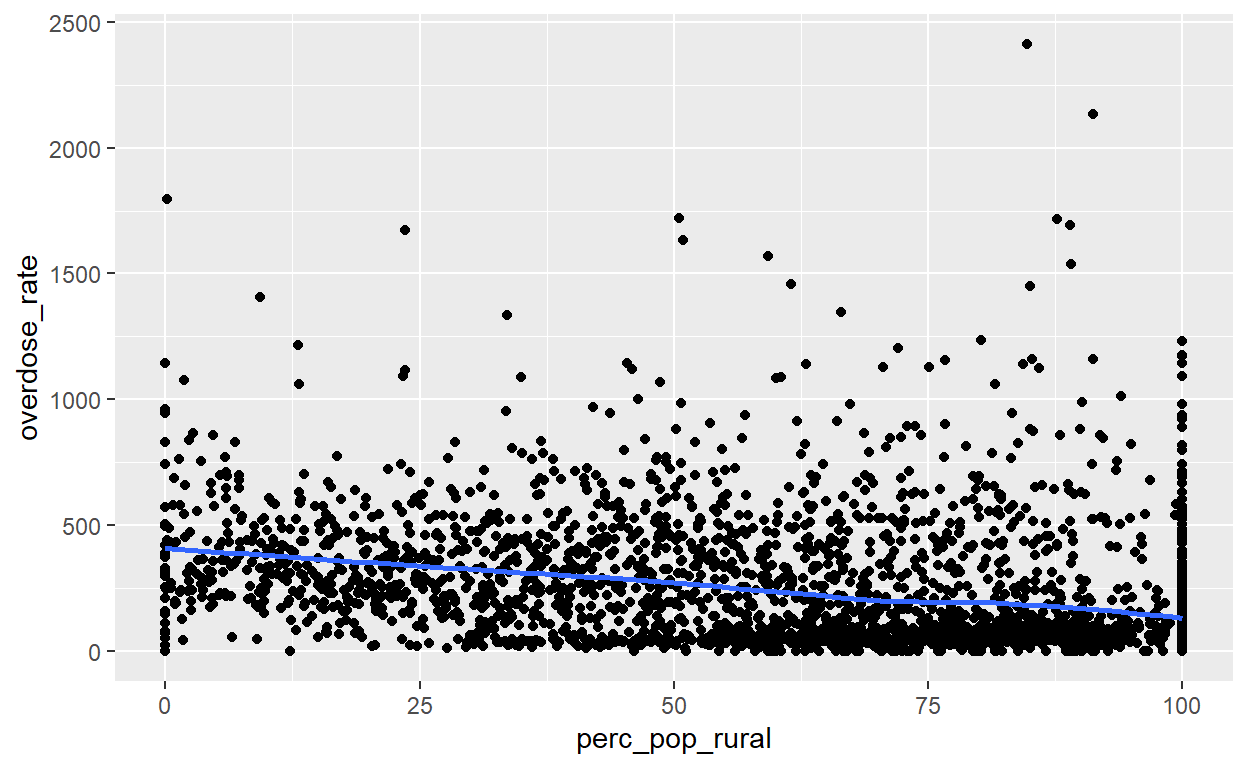
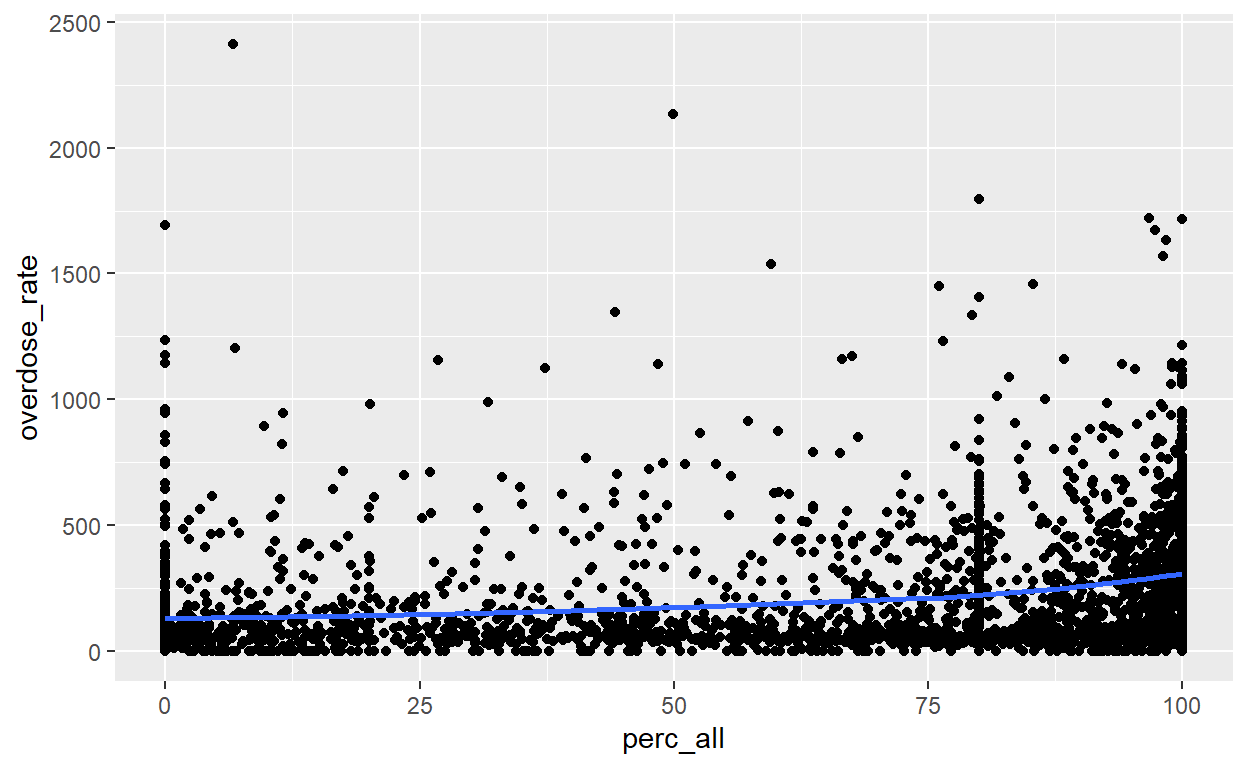
0

diff --git a/index.html b/index.html
@@ -115,7 +115,7 @@ code span.wa { color: #5e5e5e; font-style: italic; } /* Warning */
   <!--/radix_placeholder_rmarkdown_metadata-->
   
   <script type="text/json" id="radix-resource-manifest">
-  {"type":"character","attributes":{},"value":["Data/Access_to_Intercity_Air__Bus__and_Rail_Transportation_in_Rural_Areas.csv","Data/Data.Rproj","Data/VSRR_Provisional_County-Level_Drug_Overdose_Death_Counts.csv","index_files/anchor-4.2.2/anchor.min.js","index_files/bowser-1.9.3/bowser.min.js","index_files/distill-2.2.21/template.v2.js","index_files/figure-html5/unnamed-chunk-5-1.png","index_files/figure-html5/unnamed-chunk-5-2.png","index_files/figure-html5/unnamed-chunk-5-3.png","index_files/figure-html5/unnamed-chunk-5-4.png","index_files/figure-html5/unnamed-chunk-6-1.png","index_files/header-attrs-2.17/header-attrs.js","index_files/header-attrs-2.24/header-attrs.js","index_files/jquery-3.6.0/jquery-3.6.0.js","index_files/jquery-3.6.0/jquery-3.6.0.min.js","index_files/jquery-3.6.0/jquery-3.6.0.min.map","index_files/popper-2.6.0/popper.min.js","index_files/tippy-6.2.7/tippy-bundle.umd.min.js","index_files/tippy-6.2.7/tippy-light-border.css","index_files/tippy-6.2.7/tippy.css","index_files/tippy-6.2.7/tippy.umd.min.js","index_files/webcomponents-2.0.0/webcomponents.js"]}
+  {"type":"character","attributes":{},"value":["Data/Access_to_Intercity_Air__Bus__and_Rail_Transportation_in_Rural_Areas.csv","Data/Data.Rproj","Data/VSRR_Provisional_County-Level_Drug_Overdose_Death_Counts.csv","index_files/anchor-4.2.2/anchor.min.js","index_files/bowser-1.9.3/bowser.min.js","index_files/distill-2.2.21/template.v2.js","index_files/figure-html5/unnamed-chunk-5-1.png","index_files/figure-html5/unnamed-chunk-5-2.png","index_files/figure-html5/unnamed-chunk-5-3.png","index_files/figure-html5/unnamed-chunk-5-4.png","index_files/figure-html5/unnamed-chunk-6-1.png","index_files/figure-html5/unnamed-chunk-6-2.png","index_files/header-attrs-2.17/header-attrs.js","index_files/header-attrs-2.24/header-attrs.js","index_files/jquery-3.6.0/jquery-3.6.0.js","index_files/jquery-3.6.0/jquery-3.6.0.min.js","index_files/jquery-3.6.0/jquery-3.6.0.min.map","index_files/popper-2.6.0/popper.min.js","index_files/tippy-6.2.7/tippy-bundle.umd.min.js","index_files/tippy-6.2.7/tippy-light-border.css","index_files/tippy-6.2.7/tippy.css","index_files/tippy-6.2.7/tippy.umd.min.js","index_files/webcomponents-2.0.0/webcomponents.js"]}
   </script>
   <!--radix_placeholder_navigation_in_header-->
   <!--/radix_placeholder_navigation_in_header-->
@@ -1593,13 +1593,11 @@ code span.wa { color: #5e5e5e; font-style: italic; } /* Warning */
 </div>
 <img src="index_files/figure-html5/unnamed-chunk-5-1.png" width="624" />
 <div class="sourceCode">
-<pre class="sourceCode r"><code class="sourceCode r"><span><span class='fu'><a href='https://ggplot2.tidyverse.org/reference/ggplot.html'>ggplot</a></span><span class='op'>(</span>data <span class='op'>=</span> <span class='va'>combined</span>, mapping <span class='op'>=</span> <span class='fu'><a href='https://ggplot2.tidyverse.org/reference/aes.html'>aes</a></span><span class='op'>(</span>x <span class='op'>=</span> <span class='va'>perc_pop_rural</span>, y <span class='op'>=</span> <span class='va'>overdose_rate</span><span class='op'>)</span><span class='op'>)</span> <span class='op'>+</span> <span class='fu'><a href='https://ggplot2.tidyverse.org/reference/geom_point.html'>geom_point</a></span><span class='op'>(</span><span class='op'>)</span> <span class='op'>+</span> <span class='fu'><a href='https://ggplot2.tidyverse.org/reference/geom_smooth.html'>geom_smooth</a></span><span class='op'>(</span>method <span class='op'>=</span> <span class='st'>"loess"</span>, se <span class='op'>=</span> <span class='cn'>FALSE</span><span class='op'>)</span></span></code></pre>
+<pre class="sourceCode r"><code class="sourceCode r"><span><span class='va'>od</span> <span class='op'>&lt;-</span> <span class='fu'><a href='https://ggplot2.tidyverse.org/reference/ggplot.html'>ggplot</a></span><span class='op'>(</span>data <span class='op'>=</span> <span class='va'>combined</span>, mapping <span class='op'>=</span> <span class='fu'><a href='https://ggplot2.tidyverse.org/reference/aes.html'>aes</a></span><span class='op'>(</span>x <span class='op'>=</span> <span class='va'>perc_pop_rural</span>, y <span class='op'>=</span> <span class='va'>overdose_rate</span><span class='op'>)</span><span class='op'>)</span> <span class='op'>+</span> <span class='fu'><a href='https://ggplot2.tidyverse.org/reference/geom_point.html'>geom_point</a></span><span class='op'>(</span>alpha <span class='op'>=</span> <span class='fl'>0.25</span><span class='op'>)</span> <span class='op'>+</span> <span class='fu'><a href='https://ggplot2.tidyverse.org/reference/geom_smooth.html'>geom_smooth</a></span><span class='op'>(</span>method <span class='op'>=</span> <span class='st'>"loess"</span>, se <span class='op'>=</span> <span class='cn'>FALSE</span><span class='op'>)</span> <span class='op'>+</span> <span class='fu'><a href='https://ggplot2.tidyverse.org/reference/labs.html'>labs</a></span><span class='op'>(</span>x <span class='op'>=</span> <span class='st'>"Percent of Rural Population"</span>, y <span class='op'>=</span> <span class='st'>"Overdose Rate"</span>, title <span class='op'>=</span> <span class='st'>"Percentage of a County Rural and Overdose Rate"</span><span class='op'>)</span></span>
+<span></span>
+<span><span class='fu'><a href='https://ggplot2.tidyverse.org/reference/ggplot.html'>ggplot</a></span><span class='op'>(</span>data <span class='op'>=</span> <span class='va'>combined</span>, mapping <span class='op'>=</span> <span class='fu'><a href='https://ggplot2.tidyverse.org/reference/aes.html'>aes</a></span><span class='op'>(</span>x <span class='op'>=</span> <span class='va'>perc_all</span>, y <span class='op'>=</span> <span class='va'>overdose_rate</span><span class='op'>)</span><span class='op'>)</span><span class='op'>+</span> <span class='fu'><a href='https://ggplot2.tidyverse.org/reference/geom_point.html'>geom_point</a></span><span class='op'>(</span><span class='op'>)</span> <span class='op'>+</span> <span class='fu'><a href='https://ggplot2.tidyverse.org/reference/geom_smooth.html'>geom_smooth</a></span><span class='op'>(</span>method <span class='op'>=</span> <span class='st'>"loess"</span>, se <span class='op'>=</span> <span class='cn'>FALSE</span><span class='op'>)</span> <span class='op'>+</span> <span class='fu'><a href='https://ggplot2.tidyverse.org/reference/scale_continuous.html'>scale_x_continuous</a></span><span class='op'>(</span>limits <span class='op'>=</span> <span class='fu'><a href='https://rdrr.io/r/base/c.html'>c</a></span><span class='op'>(</span><span class='fl'>0</span>, <span class='fl'>100</span><span class='op'>)</span><span class='op'>)</span></span></code></pre>
 </div>
 <img src="index_files/figure-html5/unnamed-chunk-5-2.png" width="624" />
-<div class="sourceCode">
-<pre class="sourceCode r"><code class="sourceCode r"><span><span class='fu'><a href='https://ggplot2.tidyverse.org/reference/ggplot.html'>ggplot</a></span><span class='op'>(</span>data <span class='op'>=</span> <span class='va'>combined</span>, mapping <span class='op'>=</span> <span class='fu'><a href='https://ggplot2.tidyverse.org/reference/aes.html'>aes</a></span><span class='op'>(</span>x <span class='op'>=</span> <span class='va'>perc_unemp_intercity</span>, y <span class='op'>=</span> <span class='va'>overdose_rate</span><span class='op'>)</span><span class='op'>)</span><span class='op'>+</span> <span class='fu'><a href='https://ggplot2.tidyverse.org/reference/geom_point.html'>geom_point</a></span><span class='op'>(</span><span class='op'>)</span> <span class='op'>+</span> <span class='fu'><a href='https://ggplot2.tidyverse.org/reference/geom_smooth.html'>geom_smooth</a></span><span class='op'>(</span>method <span class='op'>=</span> <span class='st'>"loess"</span>, se <span class='op'>=</span> <span class='cn'>FALSE</span><span class='op'>)</span> <span class='op'>+</span> <span class='fu'><a href='https://ggplot2.tidyverse.org/reference/scale_continuous.html'>scale_x_continuous</a></span><span class='op'>(</span>limits <span class='op'>=</span> <span class='fu'><a href='https://rdrr.io/r/base/c.html'>c</a></span><span class='op'>(</span><span class='fl'>0</span>, <span class='fl'>30</span><span class='op'>)</span><span class='op'>)</span></span></code></pre>
-</div>
-<img src="index_files/figure-html5/unnamed-chunk-5-3.png" width="624" />
 <div class="sourceCode">
 <pre class="sourceCode r"><code class="sourceCode r"><span><span class='va'>combined_long</span> <span class='op'>&lt;-</span> <span class='va'>combined</span><span class='op'>|&gt;</span></span>
 <span>  <span class='fu'><a href='https://tidyr.tidyverse.org/reference/pivot_longer.html'>pivot_longer</a></span><span class='op'>(</span>cols <span class='op'>=</span> <span class='fu'><a href='https://rdrr.io/r/base/c.html'>c</a></span><span class='op'>(</span><span class='va'>perc_poverty_intercity</span>, <span class='va'>perc_poverty</span><span class='op'>)</span>, names_to <span class='op'>=</span> <span class='st'>"Poverty"</span>, values_to <span class='op'>=</span> <span class='st'>"value"</span><span class='op'>)</span></span>
@@ -1607,6 +1605,10 @@ code span.wa { color: #5e5e5e; font-style: italic; } /* Warning */
 <span><span class='va'>Poverty_drugs</span> <span class='op'>&lt;-</span> <span class='fu'><a href='https://ggplot2.tidyverse.org/reference/ggplot.html'>ggplot</a></span><span class='op'>(</span><span class='va'>combined_long</span>, <span class='fu'><a href='https://ggplot2.tidyverse.org/reference/aes.html'>aes</a></span><span class='op'>(</span>x <span class='op'>=</span> <span class='va'>value</span>, color <span class='op'>=</span> <span class='va'>Poverty</span>, y <span class='op'>=</span> <span class='va'>overdose_rate</span><span class='op'>)</span><span class='op'>)</span><span class='op'>+</span> <span class='fu'><a href='https://ggplot2.tidyverse.org/reference/geom_point.html'>geom_point</a></span><span class='op'>(</span>alpha <span class='op'>=</span> <span class='fl'>0.25</span><span class='op'>)</span> <span class='op'>+</span> <span class='fu'><a href='https://ggplot2.tidyverse.org/reference/geom_smooth.html'>geom_smooth</a></span><span class='op'>(</span>method <span class='op'>=</span> <span class='st'>"loess"</span>, se <span class='op'>=</span> <span class='cn'>FALSE</span><span class='op'>)</span>  <span class='op'>+</span> <span class='fu'><a href='https://ggplot2.tidyverse.org/reference/scale_continuous.html'>scale_x_continuous</a></span><span class='op'>(</span>limits <span class='op'>=</span> <span class='fu'><a href='https://rdrr.io/r/base/c.html'>c</a></span><span class='op'>(</span><span class='fl'>0</span>, <span class='fl'>50</span><span class='op'>)</span><span class='op'>)</span> <span class='op'>+</span> <span class='fu'><a href='https://ggplot2.tidyverse.org/reference/labs.html'>labs</a></span><span class='op'>(</span>title <span class='op'>=</span> <span class='st'>"Drug Overdose Rate in Relation to Access to Intercity Transit in Rural Areas"</span>, x <span class='op'>=</span> <span class='st'>"Percent of Rural Residents in Poverty in a County"</span>, y <span class='op'>=</span> <span class='st'>"Drug Overdose Rate (per 100000 People)"</span><span class='op'>)</span> <span class='op'>+</span> <span class='fu'><a href='https://ggplot2.tidyverse.org/reference/scale_colour_discrete.html'>scale_color_discrete</a></span><span class='op'>(</span>labels <span class='op'>=</span> <span class='fu'><a href='https://rdrr.io/r/base/c.html'>c</a></span><span class='op'>(</span><span class='st'>"Percent of Rural Area in Poverty"</span>, <span class='st'>"Percent of Rural Area in Poverty with Intercity Transit"</span><span class='op'>)</span><span class='op'>)</span></span>
 <span></span>
 <span><span class='va'>Poverty_drugs</span></span></code></pre>
+</div>
+<img src="index_files/figure-html5/unnamed-chunk-5-3.png" width="624" />
+<div class="sourceCode">
+<pre class="sourceCode r"><code class="sourceCode r"><span><span class='va'>od</span></span></code></pre>
 </div>
 <p><img src="index_files/figure-html5/unnamed-chunk-5-4.png" width="624" /></p>
 </div>
@@ -1616,8 +1618,13 @@ code span.wa { color: #5e5e5e; font-style: italic; } /* Warning */
 <span></span>
 <span><span class='va'>Poverty_drugs</span></span></code></pre>
 </div>
-<p><img src="index_files/figure-html5/unnamed-chunk-6-1.png" width="624" /></p>
+<img src="index_files/figure-html5/unnamed-chunk-6-1.png" width="624" />
+<div class="sourceCode">
+<pre class="sourceCode r"><code class="sourceCode r"><span><span class='va'>od</span></span></code></pre>
 </div>
+<p><img src="index_files/figure-html5/unnamed-chunk-6-2.png" width="624" /></p>
+</div>
+<p>The overdose rate appears to be higher in urban locations in 2021, and access to intercity transport actually appears to raise the overdose rate in rural counties. My data is somewhat flawed, however, as federal privacy acts prohibit the disclosure of the exact amount of deaths in a county from overdoses in a month if between 1 and 9 deaths occurred. For these values, I assumed there was one death (as it was the minimum) which I believe effects counties with smaller populations actually under reporting the number of deaths and leading to an inaccurate OD rate for these counties. Poverty and access to intercity transport seemed to be interesting to observe, however. In counties where the rural population had between 0 and 5 percent unemployment, there was a lower OD rate in counties with access to intercity transit.</p>
 <div class="sourceCode" id="cb1"><pre class="sourceCode r distill-force-highlighting-css"><code class="sourceCode r"></code></pre></div>
 <!--radix_placeholder_article_footer-->
 <!--/radix_placeholder_article_footer-->
